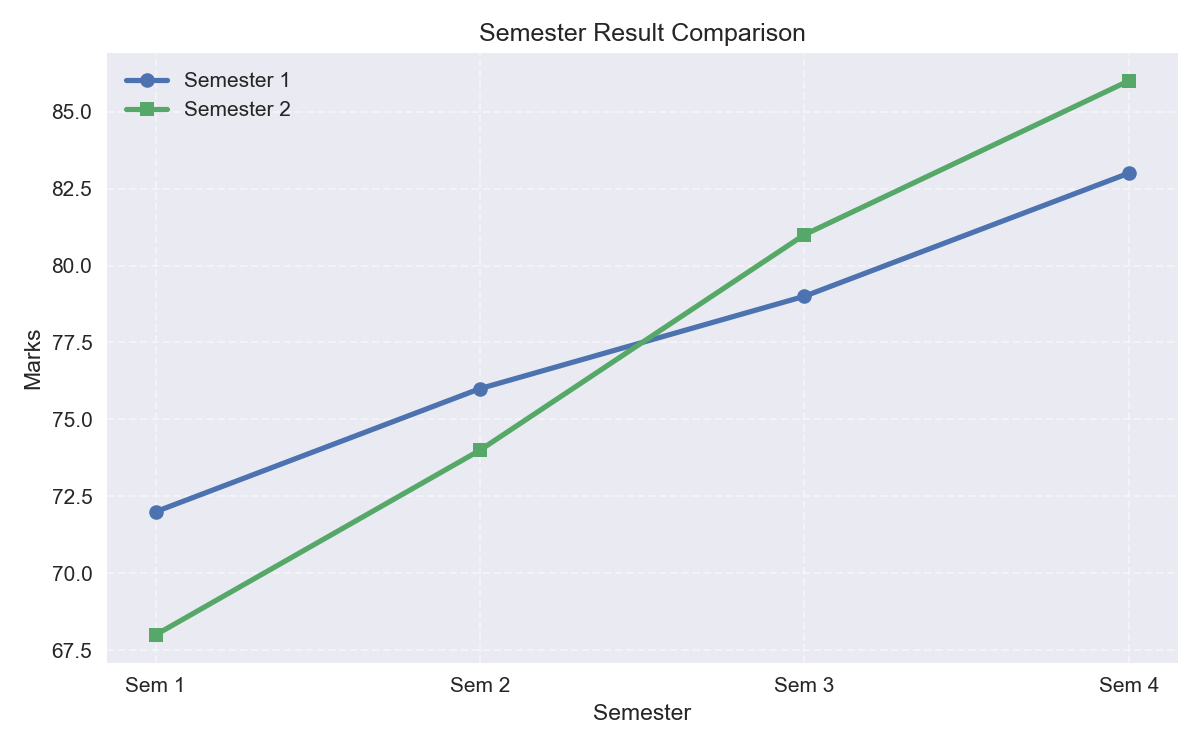
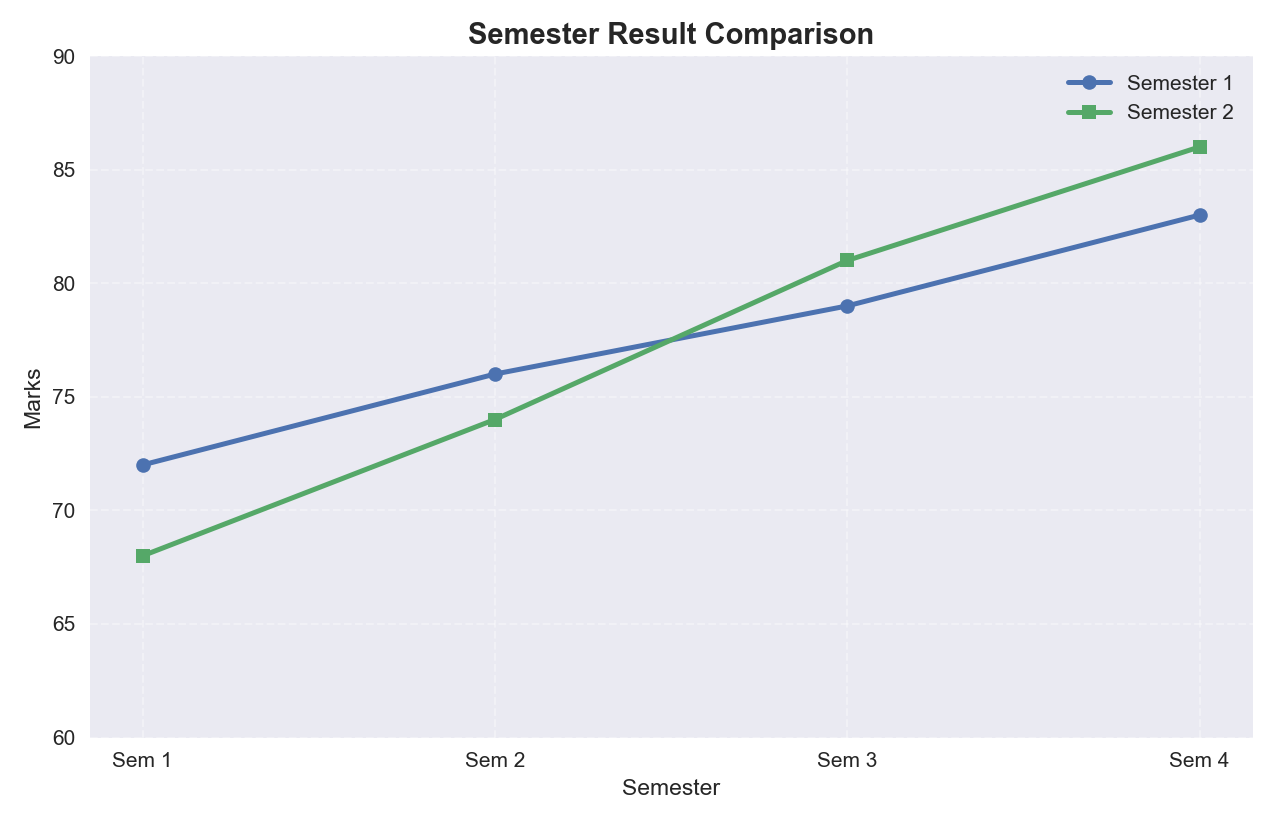
added assignment 13

diff --git a/assignments/assignment13/q7.py b/assignments/assignment13/q7.py
@@ -1,28 +1,38 @@
+"""Assignment 13 - Question 7."""
+
+from pathlib import Path
+
 import matplotlib
 
 matplotlib.use("Agg")
 
 import matplotlib.pyplot as plt
-from pathlib import Path
 
 
-semesters = ["Sem 1", "Sem 2", "Sem 3", "Sem 4"]
-semester_1 = [72, 76, 79, 83]
-semester_2 = [68, 74, 81, 86]
+def main():
+	semesters = ["Sem 1", "Sem 2", "Sem 3", "Sem 4"]
+	semester_1 = [72, 76, 79, 83]
+	semester_2 = [68, 74, 81, 86]
 
-plt.style.use("seaborn-v0_8")
-fig, ax = plt.subplots(figsize=(8, 5))
+	plt.style.use("seaborn-v0_8")
+	fig, ax = plt.subplots(figsize=(8.5, 5.5))
 
-ax.plot(semesters, semester_1, marker="o", linewidth=2.5, label="Semester 1")
-ax.plot(semesters, semester_2, marker="s", linewidth=2.5, label="Semester 2")
+	ax.plot(semesters, semester_1, marker="o", linewidth=2.4, label="Semester 1")
+	ax.plot(semesters, semester_2, marker="s", linewidth=2.4, label="Semester 2")
 
-ax.set_title("Semester Result Comparison")
-ax.set_xlabel("Semester")
-ax.set_ylabel("Marks")
-ax.grid(True, linestyle="--", alpha=0.4)
-ax.legend()
+	ax.set_title("Semester Result Comparison", fontsize=14, fontweight="bold")
+	ax.set_xlabel("Semester")
+	ax.set_ylabel("Marks")
+	ax.set_ylim(60, 90)
+	ax.grid(True, linestyle="--", alpha=0.35)
+	ax.legend(frameon=False)
 
-plt.tight_layout()
-output_path = Path(__file__).with_name("semester_result_comparison.png")
-plt.savefig(output_path, dpi=150)
-print(f"Chart saved to {output_path}")
+	plt.tight_layout()
+	output_path = Path(__file__).with_name("semester_result_comparison.png")
+	plt.savefig(output_path, dpi=150)
+	plt.close(fig)
+	print(f"Chart saved to {output_path}")
+
+
+if __name__ == "__main__":
+	main()

diff --git a/assignments/assignment13/q5.py b/assignments/assignment13/q5.py
@@ -1,26 +1,36 @@
+"""Assignment 13 - Question 5."""
+
 import numpy as np
 from collections import Counter
 
 
-arr1 = np.array([3, 4])
-arr2 = np.array([1, 0])
+def describe_array(name, array):
+	print(f"{name}:")
+	print(array)
+	print()
 
-avg = (arr1 + arr2) / 2
-print("Average of NumPy arrays:")
-print(avg)
-print()
 
-first_2d = np.array([[1, 2, 3], [4, 5, 6]])
-second_2d = np.array([[6, 5, 4], [3, 2, 1]])
+def main():
+	arr1 = np.array([3, 4])
+	arr2 = np.array([1, 0])
+	avg = (arr1 + arr2) / 2
 
-combined = np.concatenate((first_2d.ravel(), second_2d.ravel()))
+	first_2d = np.array([[1, 2, 3], [4, 5, 6]])
+	second_2d = np.array([[6, 5, 4], [3, 2, 1]])
+	combined = np.concatenate((first_2d.ravel(), second_2d.ravel()))
 
-print("First 2D array:")
-print(first_2d)
-print()
-print("Second 2D array:")
-print(second_2d)
-print()
-print("Mean of both 2D arrays combined:", np.mean(combined))
-print("Median of both 2D arrays combined:", np.median(combined))
-print("Mode of both 2D arrays combined:", Counter(combined).most_common(1)[0][0])
+	print("Element-wise average of two 1D arrays:")
+	print(avg)
+	print()
+
+	describe_array("First 2D array", first_2d)
+	describe_array("Second 2D array", second_2d)
+
+	print("Statistics for both 2D arrays combined:")
+	print("Mean:", np.mean(combined))
+	print("Median:", np.median(combined))
+	print("Mode:", Counter(combined).most_common(1)[0][0])
+
+
+if __name__ == "__main__":
+	main()

diff --git a/assignments/assignment13/q6.py b/assignments/assignment13/q6.py
@@ -1,24 +1,35 @@
+"""Assignment 13 - Question 6."""
+
 import numpy as np
 
 
-coefficients = np.array([
-    [1, -2, 3],
-    [-1, 3, -1],
-    [2, -5, 5],
-], dtype=float)
+def main():
+    coefficients = np.array(
+        [
+            [1, -2, 3],
+            [-1, 3, -1],
+            [2, -5, 5],
+        ],
+        dtype=float,
+    )
+    constants = np.array([9, -6, 17], dtype=float)
 
-constants = np.array([9, -6, 17], dtype=float)
+    solution_using_solve = np.linalg.solve(coefficients, constants)
+    solution_using_inverse = np.linalg.inv(coefficients).dot(constants)
 
-solution_using_solve = np.linalg.solve(coefficients, constants)
-solution_using_inverse = np.linalg.inv(coefficients).dot(constants)
+    print("System of equations:")
+    print("x - 2y + 3z = 9")
+    print("-x + 3y - z = -6")
+    print("2x - 5y + 5z = 17")
+    print()
+    print("Solution using numpy.linalg.solve():")
+    print(solution_using_solve)
+    print("Solution using inverse matrix method:")
+    print(solution_using_inverse)
+    print()
+    print("Residual check:")
+    print(coefficients.dot(solution_using_solve) - constants)
 
-print("Coefficient matrix:")
-print(coefficients)
-print()
-print("Constants:")
-print(constants)
-print()
-print("Solution using linalg.solve:")
-print(solution_using_solve)
-print("Solution using inverse matrix method:")
-print(solution_using_inverse)
+
+if __name__ == "__main__":
+    main()

diff --git a/assignments/assignment13/q3.py b/assignments/assignment13/q3.py
@@ -1,25 +1,30 @@
+"""Assignment 13 - Question 3."""
+
 import numpy as np
 
 
-array_with_nan = np.array(
-    [
-        [10, np.nan, 30],
-        [20, 25, np.nan],
-        [np.nan, 35, 45],
-    ],
-    dtype=float,
-)
+def main():
+    array_with_nan = np.array(
+        [
+            [10, np.nan, 30],
+            [20, 25, np.nan],
+            [np.nan, 35, 45],
+        ],
+        dtype=float,
+    )
 
-print("Original array:")
-print(array_with_nan)
-print()
+    column_means = np.nanmean(array_with_nan, axis=0)
+    filled = np.where(np.isnan(array_with_nan), column_means, array_with_nan)
 
-column_means = np.nanmean(array_with_nan, axis=0)
-filled = array_with_nan.copy()
-nan_rows, nan_cols = np.where(np.isnan(filled))
+    print("Original array:")
+    print(array_with_nan)
+    print()
+    print("Column means used for filling NaN values:")
+    print(column_means)
+    print()
+    print("Array after filling NaN values with column averages:")
+    print(filled)
 
-for row_index, col_index in zip(nan_rows, nan_cols):
-    filled[row_index, col_index] = column_means[col_index]
 
-print("NaN replaced with column averages:")
-print(filled)
+if __name__ == "__main__":
+    main()

diff --git a/assignments/assignment13/q1.py b/assignments/assignment13/q1.py
@@ -1,16 +1,23 @@
+"""Assignment 13 - Question 1."""
+
 import numpy as np
 
 
-array_2d = np.array([[6, -8, 73, -110], [np.nan, -8, 0, 94]], dtype=float)
+def print_section(title, value):
+	print(f"{title}:")
+	print(value)
+	print()
 
-print("Original array:")
-print(array_2d)
-print()
 
-array_without_nan = np.nan_to_num(array_2d, nan=0)
-print("NaN replaced with 0:")
-print(array_without_nan)
-print()
+def main():
+	array_2d = np.array([[6, -8, 73, -110], [np.nan, -8, 0, 94]], dtype=float)
 
-print("Interchanged rows and columns using transpose:")
-print(array_without_nan.T)
+	print_section("Original array", array_2d)
+
+	array_without_nan = np.nan_to_num(array_2d, nan=0)
+	print_section("NaN replaced with 0", array_without_nan)
+	print_section("Transpose of the cleaned array", array_without_nan.T)
+
+
+if __name__ == "__main__":
+	main()

diff --git a/assignments/assignment13/q4.py b/assignments/assignment13/q4.py
@@ -1,16 +1,18 @@
+"""Assignment 13 - Question 4."""
+
 import numpy as np
 
 
-array = np.array([[23, -56, 78, -93], [71, -82, 13, 24]])
+def main():
+    array = np.array([[23, -56, 78, -93], [71, -82, 13, 24]])
+    cleaned = np.where(array < 0, 0, array)
 
-print("Original array:")
-print(array)
-print()
+    print("Original array:")
+    print(array)
+    print()
+    print("Negative values replaced with 0:")
+    print(cleaned)
 
-for row_index in range(array.shape[0]):
-    for col_index in range(array.shape[1]):
-        if array[row_index, col_index] < 0:
-            array[row_index, col_index] = 0
 
-print("Negative values replaced with 0:")
-print(array)
+if __name__ == "__main__":
+    main()

diff --git a/assignments/assignment13/q2.py b/assignments/assignment13/q2.py
@@ -1,11 +1,18 @@
+"""Assignment 13 - Question 2."""
+
 import numpy as np
 
 
-array_3d = np.arange(24).reshape(2, 3, 4)
+def main():
+	array_3d = np.arange(24).reshape(2, 3, 4)
+	moved_axes = np.moveaxis(array_3d, source=(0, 1, 2), destination=(2, 0, 1))
 
-print("Original 3D array:")
-print(array_3d)
-print()
+	print("Original 3D array (shape: 2x3x4):")
+	print(array_3d)
+	print()
+	print("Array after moving axes to (2, 0, 1):")
+	print(moved_axes)
 
-print("Move axes to new positions:")
-print(np.moveaxis(array_3d, source=(0, 1, 2), destination=(2, 0, 1)))
+
+if __name__ == "__main__":
+	main()

diff --git a/assignments/assignment13/README.md b/assignments/assignment13/README.md
@@ -2,7 +2,17 @@
 
 NumPy and Matplotlib practice scripts for array operations, linear algebra, and semester result comparison.
 
-Run individual files with Python, for example:
+## Files
+
+- `q1.py`: replace `NaN` values and transpose a 2D array
+- `q2.py`: move axes in a 3D array
+- `q3.py`: fill `NaN` values with column averages
+- `q4.py`: replace negative values with zero
+- `q5.py`: array averaging and summary statistics
+- `q6.py`: solve a linear system with two methods
+- `q7.py`: save a semester comparison chart
+
+## Run
 
 ```bash
 python q6.py
